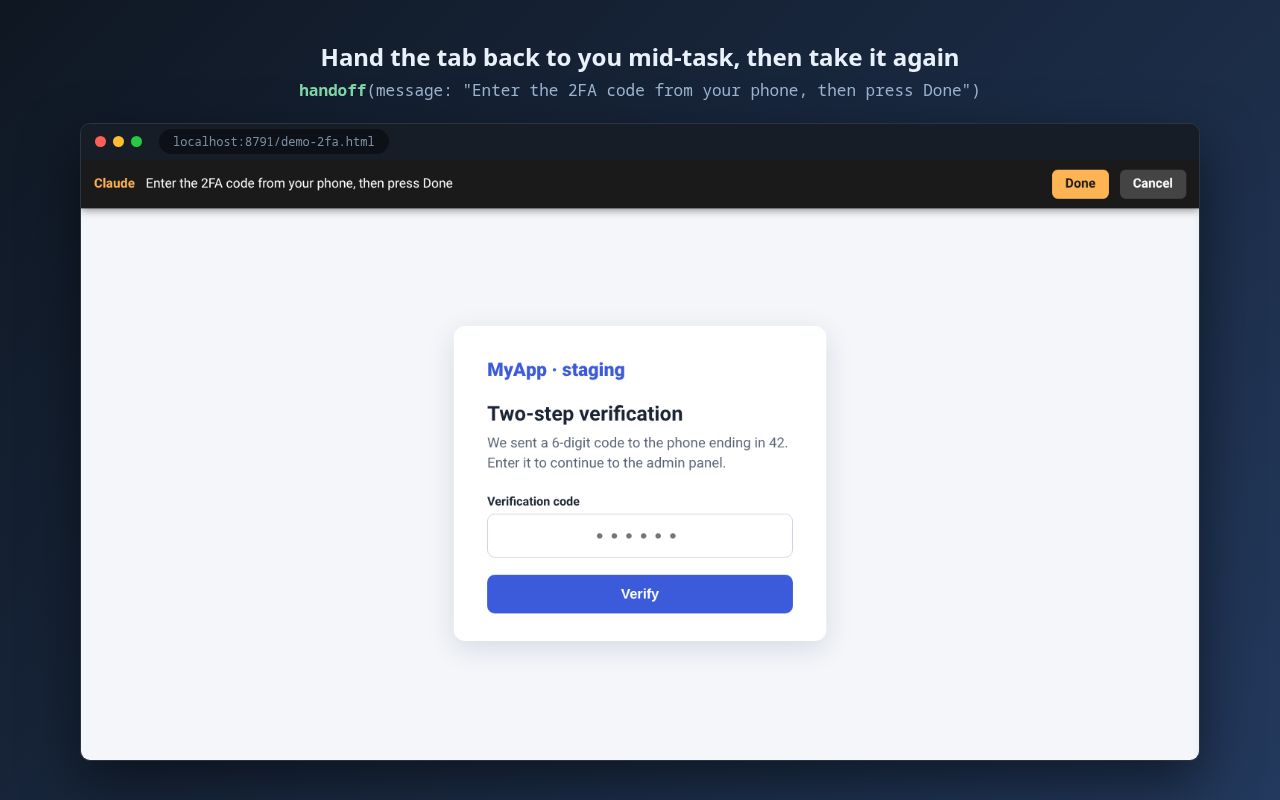
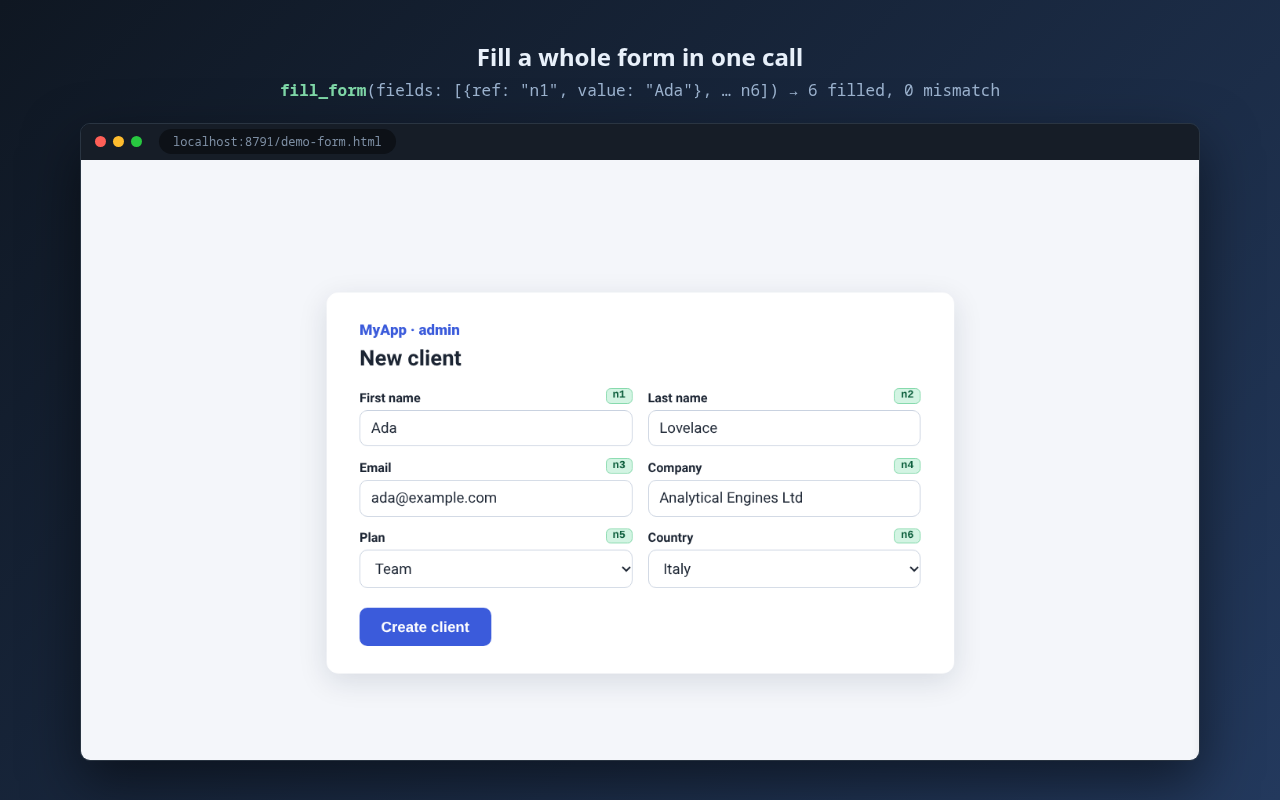
docs(store): screenshot 2 shows fill_form (6 fields, one call); description drops the login/2FA/CAPTCHA list
Real capture: get_interactives gave n1-n6 on demo-form.html, fill_form
filled all six with 0 mismatch. demo-2fa.html removed.

diff --git a/docs/store/demo-form.html b/docs/store/demo-form.html
@@ -1,0 +1,38 @@
+<!DOCTYPE html>
+<html lang="en"><head><meta charset="utf-8"><title>New client — MyApp admin</title><style>
+  * { box-sizing: border-box; }
+  body { margin: 0; min-height: 100vh; background: #f4f6fa; font-family: system-ui, sans-serif; color: #1c2533;
+    display: flex; align-items: center; justify-content: center; }
+  form { width: 640px; background: #fff; border-radius: 12px; padding: 30px 34px 28px;
+    box-shadow: 0 8px 30px rgba(20,35,60,0.12); }
+  .brand { font-weight: 800; font-size: 15px; color: #3b5bdb; margin-bottom: 6px; }
+  h1 { font-size: 22px; margin: 0 0 20px; }
+  .row { display: grid; grid-template-columns: 1fr 1fr; gap: 16px; }
+  .f { position: relative; margin-bottom: 14px; }
+  label { display: block; font-size: 13px; font-weight: 600; margin-bottom: 5px; }
+  input, select, textarea { width: 100%; font: inherit; font-size: 15px; padding: 9px 11px;
+    border: 1px solid #c9d2e0; border-radius: 8px; background: #fff; color: #1c2533; }
+  textarea { height: 64px; resize: none; }
+  button { margin-top: 6px; padding: 11px 22px; font-size: 15px; font-weight: 600; color: #fff;
+    background: #3b5bdb; border: 0; border-radius: 8px; }
+  .ref { position: absolute; top: -2px; right: 0; font: 600 11px ui-monospace, monospace;
+    color: #0b5d3b; background: #d3f4e3; border: 1px solid #7fd8a8; border-radius: 5px; padding: 1px 6px; }
+</style></head><body>
+  <form onsubmit="return false">
+    <div class="brand">MyApp · admin</div>
+    <h1>New client</h1>
+    <div class="row">
+      <div class="f"><label for="first">First name</label><input id="first" name="first"></div>
+      <div class="f"><label for="last">Last name</label><input id="last" name="last"></div>
+    </div>
+    <div class="row">
+      <div class="f"><label for="email">Email</label><input id="email" name="email" type="email"></div>
+      <div class="f"><label for="company">Company</label><input id="company" name="company"></div>
+    </div>
+    <div class="row">
+      <div class="f"><label for="plan">Plan</label><select id="plan" name="plan"><option value="">Choose…</option><option>Starter</option><option>Team</option><option>Enterprise</option></select></div>
+      <div class="f"><label for="country">Country</label><select id="country" name="country"><option value="">Choose…</option><option>Italy</option><option>Germany</option><option>France</option><option>Spain</option></select></div>
+    </div>
+    <button type="submit">Create client</button>
+  </form>
+</body></html>

diff --git a/docs/store/viewer.html b/docs/store/viewer.html
@@ -23,16 +23,16 @@
   .browser img { display: block; width: 100%; height: 600px; object-fit: cover; object-position: top; }
 </style></head><body>
   <div class="frame">
-    <div class="caption">Hand the tab back to you mid-task, then take it again</div>
-    <div class="caption-sub"><b>handoff</b>(message: "Enter the 2FA code from your phone, then press Done")</div>
+    <div class="caption">Fill a whole form in one call</div>
+    <div class="caption-sub"><b>fill_form</b>(fields: [{ref: "n1", value: "Ada"}, … n6]) → 6 filled, 0 mismatch</div>
     <div class="browser">
       <div class="bar">
         <span class="dot" style="background:#ff5f57"></span>
         <span class="dot" style="background:#febc2e"></span>
         <span class="dot" style="background:#28c840"></span>
-        <span class="url">localhost:8791/demo-2fa.html</span>
+        <span class="url">localhost:8791/demo-form.html</span>
       </div>
-      <img src="/real-capture.png" alt="">
+      <img src="/real-form.png" alt="">
     </div>
   </div>
 </body></html>

diff --git a/docs/store/listing.md b/docs/store/listing.md
@@ -24,7 +24,7 @@ This extension has a single purpose: it lets the user's own Claude Code CLI (run
 
 ## Detailed description
 
-Chrome Bridge lets Claude Code — Anthropic's CLI coding agent — borrow a tab of the Chrome you are already using, signed in, and hand it back. No headless instance, no debugging port, no cloud service: a local WebSocket (localhost:8765) bridges the Claude Code MCP server on your machine to this extension. What only you can do — a login, a 2FA code, a CAPTCHA, a choice — comes back to you as a banner in the page (the handoff tool): you act, the agent continues. It never types your credentials.
+Chrome Bridge lets Claude Code — Anthropic's CLI coding agent — borrow a tab of the Chrome you are already using, signed in, and hand it back. No headless instance, no debugging port, no cloud service: a local WebSocket (localhost:8765) bridges the Claude Code MCP server on your machine to this extension. When a step needs you, it hands the tab back and continues after you.
 
 Built to be token-efficient: the agent acts on compact element references instead of screenshots, tables are filtered and paginated server-side before they reach the model, and every output is capped — so complex sessions cost far fewer tokens.
 
@@ -32,7 +32,7 @@ Built to be token-efficient: the agent acts on compact element references instea
 
 • Navigation & tabs — open, close, navigate, list tabs; move, tile and lay out windows
 • DOM — query selectors (shadow-DOM piercing), read pages as markdown, list interactive elements, read a form as filled, modify the DOM
-• Input — click, type, press keys, fill forms, drag & drop, upload files; hand the browser to the user for 2FA, CAPTCHA or a choice
+• Input — click, type, press keys, fill forms, drag & drop, upload files; hand the tab back to the user when a step needs them
 • Screenshots — viewport (one per device preset), element with zoom, full page, visual regression against a baseline, a design mockup or another URL; captures run in the background without stealing window focus
 • Audits — one call for accessibility, keyboard navigation, SEO, security headers, broken links, web vitals, unused CSS, slow plugins and CDN cache; cookie-consent audit; tracking pixels decoded
 • Network — monitor requests, mock/block/redirect, record and replay API responses with forced errors, HAR export

diff --git a/docs/store/PASTE-SHEET.md b/docs/store/PASTE-SHEET.md
@@ -23,7 +23,7 @@ Bridge your browser to Claude Code: 60 token-efficient web-dev automation tools 
 **Description:**
 
 ```
-Chrome Bridge lets Claude Code — Anthropic's CLI coding agent — borrow a tab of the Chrome you are already using, signed in, and hand it back. No headless instance, no debugging port, no cloud service: a local WebSocket (localhost:8765) bridges the Claude Code MCP server on your machine to this extension. What only you can do — a login, a 2FA code, a CAPTCHA, a choice — comes back to you as a banner in the page (the handoff tool): you act, the agent continues. It never types your credentials.
+Chrome Bridge lets Claude Code — Anthropic's CLI coding agent — borrow a tab of the Chrome you are already using, signed in, and hand it back. No headless instance, no debugging port, no cloud service: a local WebSocket (localhost:8765) bridges the Claude Code MCP server on your machine to this extension. When a step needs you, it hands the tab back and continues after you.
 
 Built to be token-efficient: the agent acts on compact element references instead of screenshots, tables are filtered and paginated server-side before they reach the model, and every output is capped — so complex sessions cost far fewer tokens.
 
@@ -31,7 +31,7 @@ Built to be token-efficient: the agent acts on compact element references instea
 
 • Navigation & tabs — open, close, navigate, list tabs; move, tile and lay out windows
 • DOM — query selectors (shadow-DOM piercing), read pages as markdown, list interactive elements, read a form as filled, modify the DOM
-• Input — click, type, press keys, fill forms, drag & drop, upload files; hand the browser to the user for 2FA, CAPTCHA or a choice
+• Input — click, type, press keys, fill forms, drag & drop, upload files; hand the tab back to the user when a step needs them
 • Screenshots — viewport (one per device preset), element with zoom, full page, visual regression against a baseline, a design mockup or another URL; captures run in the background without stealing window focus
 • Audits — one call for accessibility, keyboard navigation, SEO, security headers, broken links, web vitals, unused CSS, slow plugins and CDN cache; cookie-consent audit; tracking pixels decoded
 • Network — monitor requests, mock/block/redirect, record and replay API responses with forced errors, HAR export
